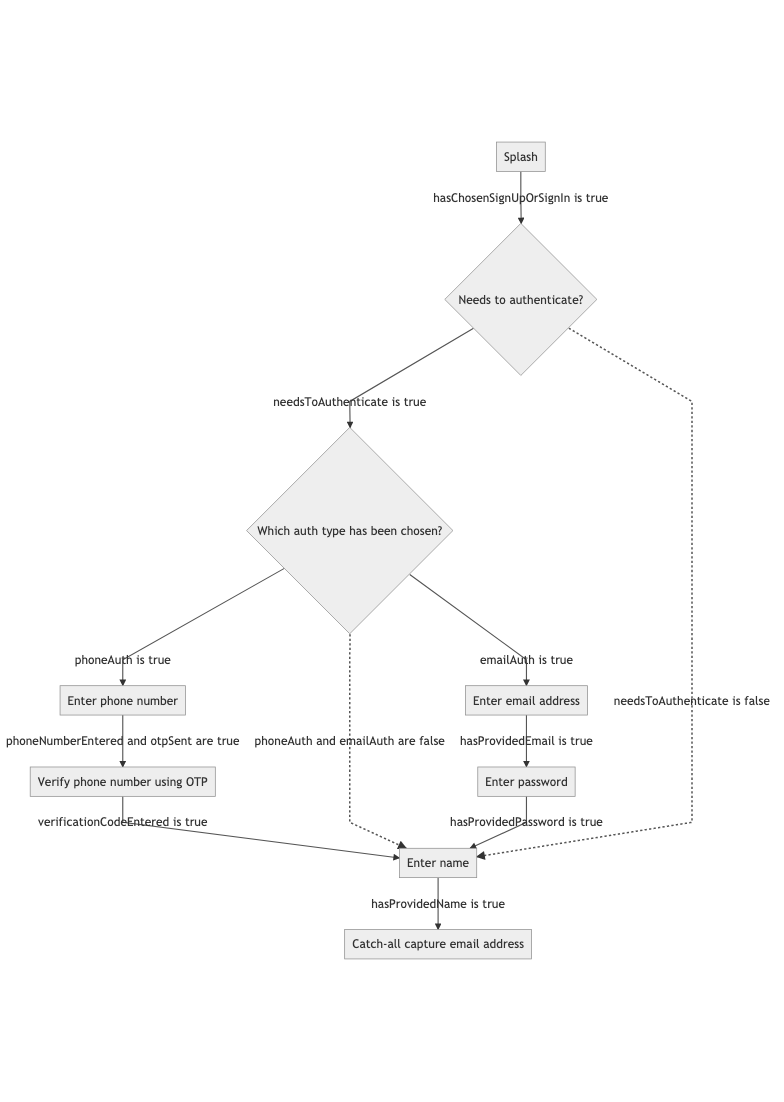
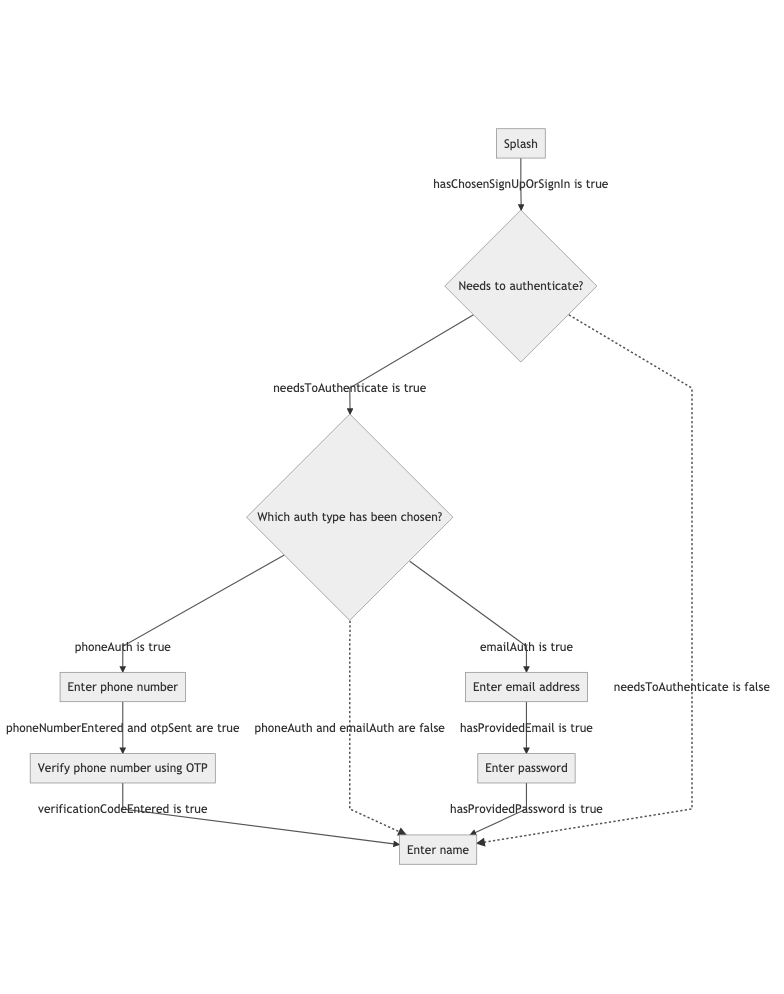
Remove capture email from onboarding

diff --git a/app/navigation/navigation.tsx b/app/navigation/navigation.tsx
@@ -16,7 +16,6 @@ import { Insets } from "react-native";
 import Animated, { Easing } from "react-native-reanimated";
 import { withSafeAreaInsets } from "react-native-safe-area-context";
 import styled, { withTheme } from "styled-components/native";
-import { signUpCaptureEmailRoute } from "../features/auth/components/sign-up-capture-email";
 import { signUpEmailRoute } from "../features/auth/components/sign-up-email";
 import { signUpNameRoute } from "../features/auth/components/sign-up-name";
 import { signUpPasswordRoute } from "../features/auth/components/sign-up-password";
@@ -281,10 +280,6 @@ export const AppNavigation = () => {
           <Stack.Screen
             name={signUpNameRoute.routeName}
             component={signUpNameRoute.screen}
-          />
-          <Stack.Screen
-            name={signUpCaptureEmailRoute.routeName}
-            component={signUpCaptureEmailRoute.screen}
           />
           <Stack.Screen
             name={signUpPasswordRoute.routeName}

diff --git a/app/features/auth/machine/states.ts b/app/features/auth/machine/states.ts
@@ -92,15 +92,6 @@ export const states: State<Context, Conditions, AdditionalEntryData>[] = [
       },
     ],
   },
-  {
-    id: "Catch-all capture email address",
-    routeName: routeNames.signUpCaptureEmailRoute,
-    isDone: [
-      function hasProvidedOrSkippedEmail(context) {
-        return !!context.emailAddress || context.skipEmailAddress;
-      },
-    ],
-  },
   // {
   //   id: "Capture avatar",
   //   routeName: routeNames.signUpAvatarRoute,

diff --git a/app/features/auth/components/route-names.ts b/app/features/auth/components/route-names.ts
@@ -6,6 +6,5 @@ export const routeNames = {
   signUpEmailRoute: "SIGN_UP_EMAIL_SCREEN",
   signUpPasswordRoute: "SIGN_UP_PASSWORD_SCREEN",
   signUpNameRoute: "SIGN_UP_NAME_SCREEN",
-  signUpCaptureEmailRoute: "SIGN_UP_CAPTURE_EMAIL_SCREEN",
   signUpAvatarRoute: "SIGN_UP_AVATAR_SCREEN",
 };
